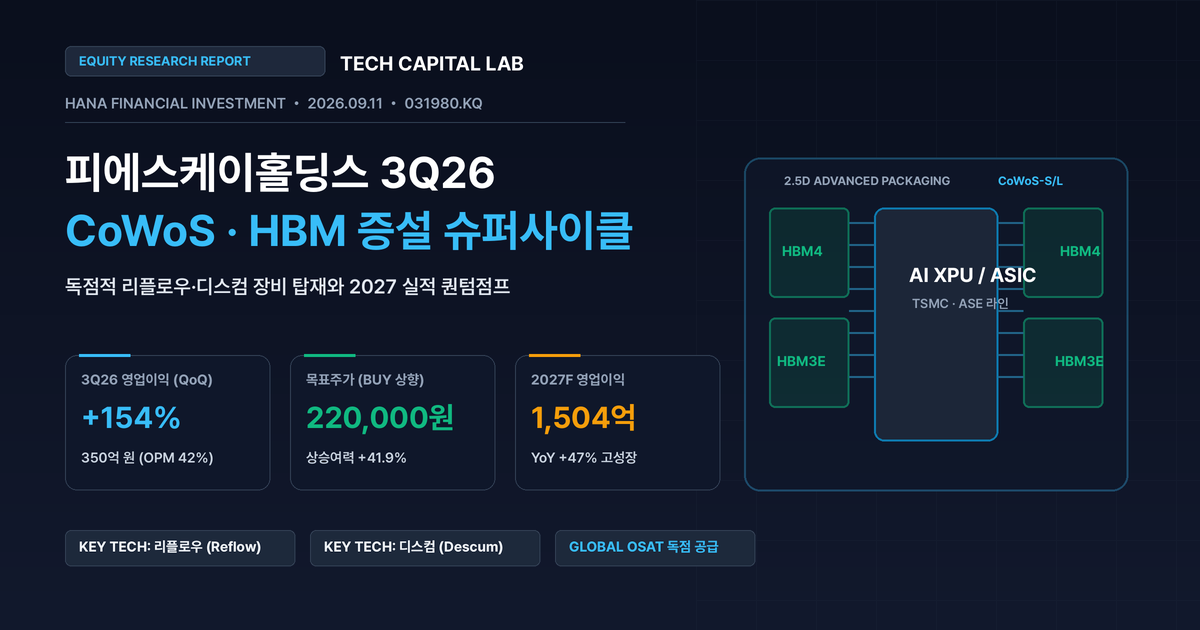
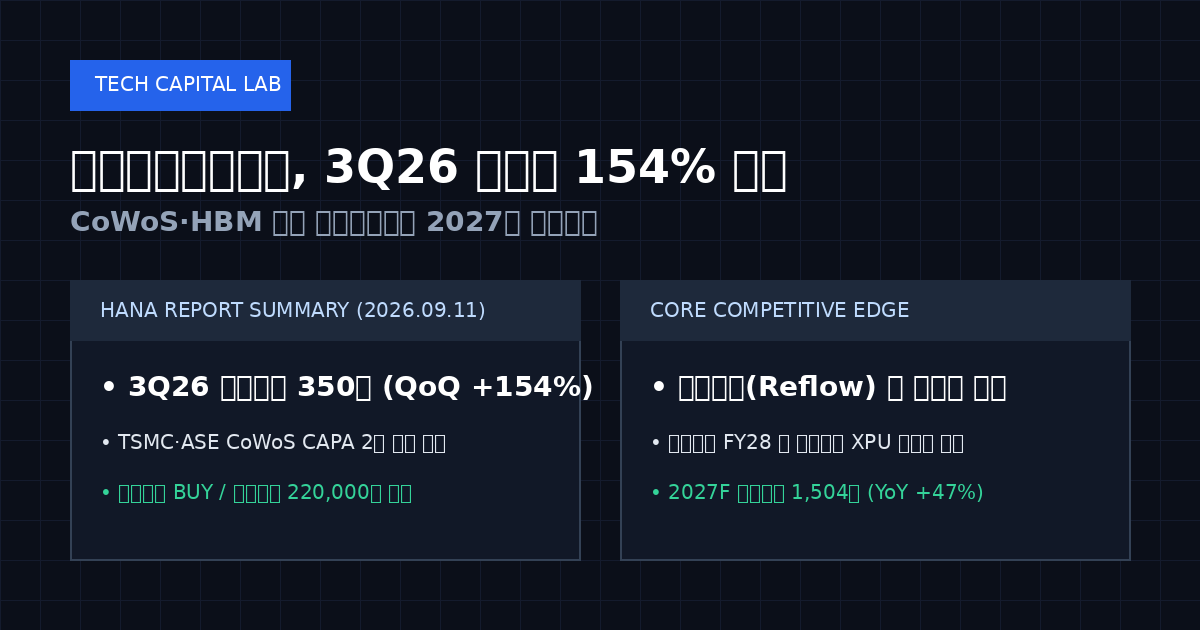
style: Update professional editorial OG thumbnail for PSK Holdings

Changed region(s): [[0.0308, 0.2111, 0.9558, 0.8143], [0.0308, 0.8143, 0.925, 0.9048], [0.0308, 0.0603, 0.4317, 0.181]]

diff --git a/scripts/generate_psk_og.py b/scripts/generate_psk_og.py
@@ -1,0 +1,263 @@
+import os
+import math
+from PIL import Image, ImageDraw, ImageFont
+
+# 1200x630 with 2x Super-Sampling for ultra-sharp typography & glass edges
+WIDTH, HEIGHT = 1200, 630
+SCALE = 2
+W, H = WIDTH * SCALE, HEIGHT * SCALE
+
+OUTPUT_PATH = '/home/freshjinyong/techcapitallab/src/assets/images/psk-holdings-3q26-preview-cowos-hbm-hana-report-20260911-og.png'
+BG_PATH = '/home/freshjinyong/.gemini/antigravity-cli/brain/bf464f82-c19b-4249-979f-8e317efa6e7b/psk_cowos_reflow_1789192711490.jpg'
+
+FONT_BOLD = '/home/freshjinyong/.local/share/fonts/Pretendard-Bold.otf'
+FONT_SEMI = '/home/freshjinyong/.local/share/fonts/Pretendard-SemiBold.otf'
+
+# 1. Load & Crop Photographic Background
+bg = Image.open(BG_PATH).convert('RGBA')
+bg_w, bg_h = bg.size
+target_ratio = W / H
+curr_ratio = bg_w / bg_h
+
+if curr_ratio > target_ratio:
+    new_w = int(bg_h * target_ratio)
+    left = (bg_w - new_w) // 2
+    bg_cropped = bg.crop((left, 0, left + new_w, bg_h))
+else:
+    new_h = int(bg_w / target_ratio)
+    top = (bg_h - new_h) // 2
+    bg_cropped = bg.crop((0, top, bg_w, top + new_h))
+
+bg_resized = bg_cropped.resize((W, H), Image.Resampling.LANCZOS)
+
+# 2. Dark Knight Editorial Gradient Overlay (#070A13 slate dark tone)
+# Left 0% to 58%: 100% solid slate #070A13 (alpha 255) for crisp text contrast
+# 58% to 88%: smooth cosine fade to alpha 45
+# 88% to 100%: gentle tail fade to alpha 15
+overlay = Image.new('RGBA', (W, H), (0, 0, 0, 0))
+draw_ol = ImageDraw.Draw(overlay)
+
+for x in range(W):
+    nx = x / W
+    if nx <= 0.58:
+        alpha = 255
+    elif nx <= 0.88:
+        t = (nx - 0.58) / (0.88 - 0.58)
+        curve = 0.5 * (1.0 + math.cos(math.pi * t))
+        alpha = int(45 + (255 - 45) * curve)
+    else:
+        t = (nx - 0.88) / (1.0 - 0.88)
+        alpha = int(45 - t * 30)
+    
+    draw_ol.line([(x, 0), (x, H)], fill=(7, 10, 19, alpha))
+
+# Top and bottom cinematic vignette
+for y in range(H):
+    top_v = max(0.0, 1.0 - (y / (140 * SCALE)))
+    bot_v = max(0.0, (y - (H - 160 * SCALE)) / (160 * SCALE))
+    if top_v > 0:
+        a = int(top_v * 90)
+        draw_ol.line([(0, y), (W, y)], fill=(7, 10, 19, a))
+    if bot_v > 0:
+        a = int(bot_v * 120)
+        draw_ol.line([(0, y), (W, y)], fill=(7, 10, 19, a))
+
+# Financial tech grid texture (left 65% area)
+grid_overlay = Image.new('RGBA', (W, H), (0, 0, 0, 0))
+draw_grid = ImageDraw.Draw(grid_overlay)
+for gx in range(0, int(W * 0.68), 48 * SCALE):
+    draw_grid.line([(gx, 0), (gx, H)], fill=(30, 41, 59, 32), width=1)
+for gy in range(0, H, 48 * SCALE):
+    draw_grid.line([(0, gy), (int(W * 0.68), gy)], fill=(30, 41, 59, 32), width=1)
+
+canvas = Image.alpha_composite(bg_resized, overlay)
+canvas = Image.alpha_composite(canvas, grid_overlay)
+
+# 3. Typography & UI Elements Layer
+txt_layer = Image.new('RGBA', (W, H), (0, 0, 0, 0))
+draw = ImageDraw.Draw(txt_layer)
+
+font_brand = ImageFont.truetype(FONT_BOLD, 22 * SCALE)
+font_meta = ImageFont.truetype(FONT_SEMI, 16 * SCALE)
+font_badge = ImageFont.truetype(FONT_BOLD, 14 * SCALE)
+font_title1 = ImageFont.truetype(FONT_BOLD, 46 * SCALE)
+font_title2 = ImageFont.truetype(FONT_BOLD, 37 * SCALE)
+font_sub = ImageFont.truetype(FONT_SEMI, 19 * SCALE)
+font_pill = ImageFont.truetype(FONT_SEMI, 15 * SCALE)
+font_card_label = ImageFont.truetype(FONT_SEMI, 14 * SCALE)
+font_card_val = ImageFont.truetype(FONT_BOLD, 31 * SCALE)
+font_card_sub = ImageFont.truetype(FONT_SEMI, 14 * SCALE)
+font_tag = ImageFont.truetype(FONT_SEMI, 14 * SCALE)
+
+lx = 75 * SCALE
+
+# --- [Header] ---
+header_y = 46 * SCALE
+brand_text = "TECHCAPITAL LAB"
+meta_text = "•  하나증권 기업분석 리포트  •  2026.09.11"
+
+draw.text((lx, header_y), brand_text, font=font_brand, fill=(0, 229, 255, 255))
+brand_w = font_brand.getbbox(brand_text)[2] - font_brand.getbbox(brand_text)[0]
+draw.text((lx + brand_w + 18 * SCALE, header_y + 4 * SCALE), meta_text, font=font_meta, fill=(148, 163, 184, 240))
+
+# Header accent lines
+bar_y = header_y + 32 * SCALE
+draw.line([(lx, bar_y), (lx + 68 * SCALE, bar_y)], fill=(0, 229, 255, 255), width=3 * SCALE)
+draw.line([(lx + 68 * SCALE, bar_y), (lx + 320 * SCALE, bar_y)], fill=(0, 229, 255, 50), width=1 * SCALE)
+
+# --- [Badges above Title] ---
+badg_y = 96 * SCALE
+badg_pad_h = 24 * SCALE
+badg_pad_w = 14 * SCALE
+
+# Badge 1: Category
+b1_text = "TechCapitalLab | Report Lab"
+b1_w = font_badge.getbbox(b1_text)[2] - font_badge.getbbox(b1_text)[0]
+draw.rounded_rectangle([lx, badg_y, lx + b1_w + badg_pad_w * 2, badg_y + badg_pad_h],
+                       radius=4 * SCALE, fill=(15, 23, 42, 230), outline=(56, 189, 248, 130), width=1 * SCALE)
+draw.text((lx + badg_pad_w, badg_y + 4 * SCALE), b1_text, font=font_badge, fill=(56, 189, 248, 255))
+
+# Badge 2: Target Stock
+b2_text = "피에스케이홀딩스 (031980)"
+b2_w = font_badge.getbbox(b2_text)[2] - font_badge.getbbox(b2_text)[0]
+b2_x = lx + b1_w + badg_pad_w * 2 + 12 * SCALE
+draw.rounded_rectangle([b2_x, badg_y, b2_x + b2_w + badg_pad_w * 2, badg_y + badg_pad_h],
+                       radius=4 * SCALE, fill=(6, 78, 59, 210), outline=(52, 211, 153, 150), width=1 * SCALE)
+draw.text((b2_x + badg_pad_w, badg_y + 4 * SCALE), b2_text, font=font_badge, fill=(52, 211, 153, 255))
+
+# Badge 3: Report Title Badge
+b3_text = "하나증권 3Q26 Preview 《거침없는 실적》"
+b3_w = font_badge.getbbox(b3_text)[2] - font_badge.getbbox(b3_text)[0]
+b3_x = b2_x + b2_w + badg_pad_w * 2 + 12 * SCALE
+draw.rounded_rectangle([b3_x, badg_y, b3_x + b3_w + badg_pad_w * 2, badg_y + badg_pad_h],
+                       radius=4 * SCALE, fill=(30, 27, 75, 210), outline=(245, 158, 11, 140), width=1 * SCALE)
+draw.text((b3_x + badg_pad_w, badg_y + 4 * SCALE), b3_text, font=font_badge, fill=(251, 191, 36, 255))
+
+# --- [Main Titles] ---
+title1_text = "피에스케이홀딩스, 거침없는 실적"
+title2_text = "3Q26 영업익 +154% & CoWoS·HBM 슈퍼사이클"
+title1_y = 138 * SCALE
+title2_y = 196 * SCALE
+
+# Drop shadow for title 1
+for dx, dy, op in [(0, 3 * SCALE, 160), (0, 6 * SCALE, 100)]:
+    draw.text((lx + dx, title1_y + dy), title1_text, font=font_title1, fill=(0, 0, 0, op))
+draw.text((lx, title1_y), title1_text, font=font_title1, fill=(255, 255, 255, 255))
+
+# Drop shadow for title 2 (Cyan point color)
+for dx, dy, op in [(0, 3 * SCALE, 160), (0, 6 * SCALE, 100)]:
+    draw.text((lx + dx, title2_y + dy), title2_text, font=font_title2, fill=(0, 0, 0, op))
+draw.text((lx, title2_y), title2_text, font=font_title2, fill=(0, 229, 255, 255))
+
+# --- [Subtitle] ---
+sub_y = 258 * SCALE
+sub_text = "하나증권 목표가 220,000원 상향 • 리플로우 & 디스컴 독점력과 2027 실적 퀀텀점프"
+for dx, dy, op in [(0, 2 * SCALE, 120)]:
+    draw.text((lx + dx, sub_y + dy), sub_text, font=font_sub, fill=(0, 0, 0, op))
+draw.text((lx, sub_y), sub_text, font=font_sub, fill=(203, 213, 225, 255))
+
+# Divider Line
+sep_y = 300 * SCALE
+draw.line([(lx, sep_y), (lx + 690 * SCALE, sep_y)], fill=(51, 65, 85, 180), width=1 * SCALE)
+
+# --- [Focus Highlight Pills] ---
+pills = [
+    ("하나증권 목표주가 220,000원", (52, 211, 153)),   # Emerald Green
+    ("3Q26 OPM 42.4% 사상 최대", (56, 189, 248)),     # Cyan Blue
+    ("TSMC · ASE CoWoS CAPA 2배", (251, 191, 36))     # Amber Gold
+]
+
+pill_x = lx
+pill_y = 318 * SCALE
+
+for text, color in pills:
+    p_bbox = font_pill.getbbox(text)
+    pw = (p_bbox[2] - p_bbox[0]) + 26 * SCALE
+    ph = 30 * SCALE
+    
+    draw.rounded_rectangle([pill_x, pill_y, pill_x + pw, pill_y + ph],
+                           radius=6 * SCALE, fill=(15, 23, 42, 230), outline=(*color, 130), width=1 * SCALE)
+    draw.ellipse([pill_x + 9 * SCALE, pill_y + 11 * SCALE, pill_x + 15 * SCALE, pill_y + 17 * SCALE], fill=(*color, 255))
+    draw.text((pill_x + 21 * SCALE, pill_y + 5 * SCALE), text, font=font_pill, fill=(241, 245, 249, 250))
+    pill_x += pw + 12 * SCALE
+
+# --- [Glassmorphism Data Cards (2 Cards Side by Side)] ---
+card_y = 368 * SCALE
+card_h = 175 * SCALE
+card_w = 345 * SCALE
+card_gap = 20 * SCALE
+
+cards = [
+    {
+        "label": "3Q26 영업이익 퀀텀점프",
+        "value": "350억 원",
+        "badge": "QoQ +153.6% (OPM 42.4%)",
+        "badge_color": (56, 189, 248),   # Cyan Blue
+        "sub": "3Q 매출 825억 (+74%) · 4Q 1,144억 전망",
+        "accent": (0, 229, 255),         # Electric Cyan
+        "val_color": (56, 189, 248)
+    },
+    {
+        "label": "하나증권 목표주가 상향",
+        "value": "220,000원",
+        "badge": "상승여력 +41.9% (BUY 유지)",
+        "badge_color": (52, 211, 153),  # Emerald Green
+        "sub": "2027F 영업익 1,504억 (+47.3%) 독점력",
+        "accent": (16, 185, 129),        # Emerald Green
+        "val_color": (52, 211, 153)
+    }
+]
+
+for i, card in enumerate(cards):
+    cx = lx + i * (card_w + card_gap)
+    
+    # Glassmorphism Card Box with glowing edge & semi-transparent backdrop
+    draw.rounded_rectangle([cx, card_y, cx + card_w, card_y + card_h],
+                           radius=12 * SCALE, fill=(13, 19, 33, 240), outline=(51, 65, 85, 240), width=2 * SCALE)
+    
+    # Top edge subtle light glow
+    draw.line([(cx + 12 * SCALE, card_y), (cx + card_w - 12 * SCALE, card_y)],
+              fill=(255, 255, 255, 40), width=1 * SCALE)
+    
+    # Left vertical accent bar
+    draw.rounded_rectangle([cx + 12 * SCALE, card_y + 16 * SCALE, cx + 17 * SCALE, card_y + card_h - 16 * SCALE],
+                           radius=3 * SCALE, fill=(*card["accent"], 255))
+    
+    # Card Header Label
+    draw.text((cx + 28 * SCALE, card_y + 16 * SCALE), card["label"], font=font_card_label, fill=(148, 163, 184, 255))
+    
+    # Card Big Value
+    draw.text((cx + 28 * SCALE, card_y + 44 * SCALE), card["value"], font=font_card_val, fill=(*card["val_color"], 255))
+    
+    # Badge Box
+    b_text = card["badge"]
+    b_bbox = font_badge.getbbox(b_text)
+    bw = b_bbox[2] - b_bbox[0] + 16 * SCALE
+    bh = 22 * SCALE
+    bx = cx + 28 * SCALE
+    by = card_y + 92 * SCALE
+    draw.rounded_rectangle([bx, by, bx + bw, by + bh],
+                           radius=4 * SCALE, fill=(30, 41, 59, 220), outline=(*card["badge_color"], 140), width=1 * SCALE)
+    draw.text((bx + 8 * SCALE, by + 2 * SCALE), b_text, font=font_badge, fill=(*card["badge_color"], 255))
+    
+    # Card Subtext
+    draw.text((cx + 28 * SCALE, card_y + 130 * SCALE), card["sub"], font=font_card_sub, fill=(203, 213, 225, 230))
+
+# --- [Tags at bottom] ---
+tags_y = 562 * SCALE
+tags = ["#피에스케이홀딩스", "#하나증권", "#HBM4", "#CoWoS증설", "#리플로우", "#디스컴"]
+cur_x = lx
+
+for t in tags:
+    tw = font_tag.getbbox(t)[2] - font_tag.getbbox(t)[0]
+    draw.rounded_rectangle([cur_x, tags_y, cur_x + tw + 18 * SCALE, tags_y + 26 * SCALE],
+                           radius=5 * SCALE, fill=(30, 41, 59, 210), outline=(51, 65, 85, 220), width=1 * SCALE)
+    draw.text((cur_x + 9 * SCALE, tags_y + 4 * SCALE), t, font=font_tag, fill=(148, 163, 184, 255))
+    cur_x += tw + 28 * SCALE
+
+# 4. Composite and Lanczos Downsample to 1200x630
+final_canvas = Image.alpha_composite(canvas, txt_layer)
+os.makedirs(os.path.dirname(OUTPUT_PATH), exist_ok=True)
+final_img = final_canvas.convert("RGB").resize((WIDTH, HEIGHT), Image.Resampling.LANCZOS)
+final_img.save(OUTPUT_PATH, format="PNG", optimize=True)
+print(f"OG Image successfully created and saved at: {OUTPUT_PATH}")
